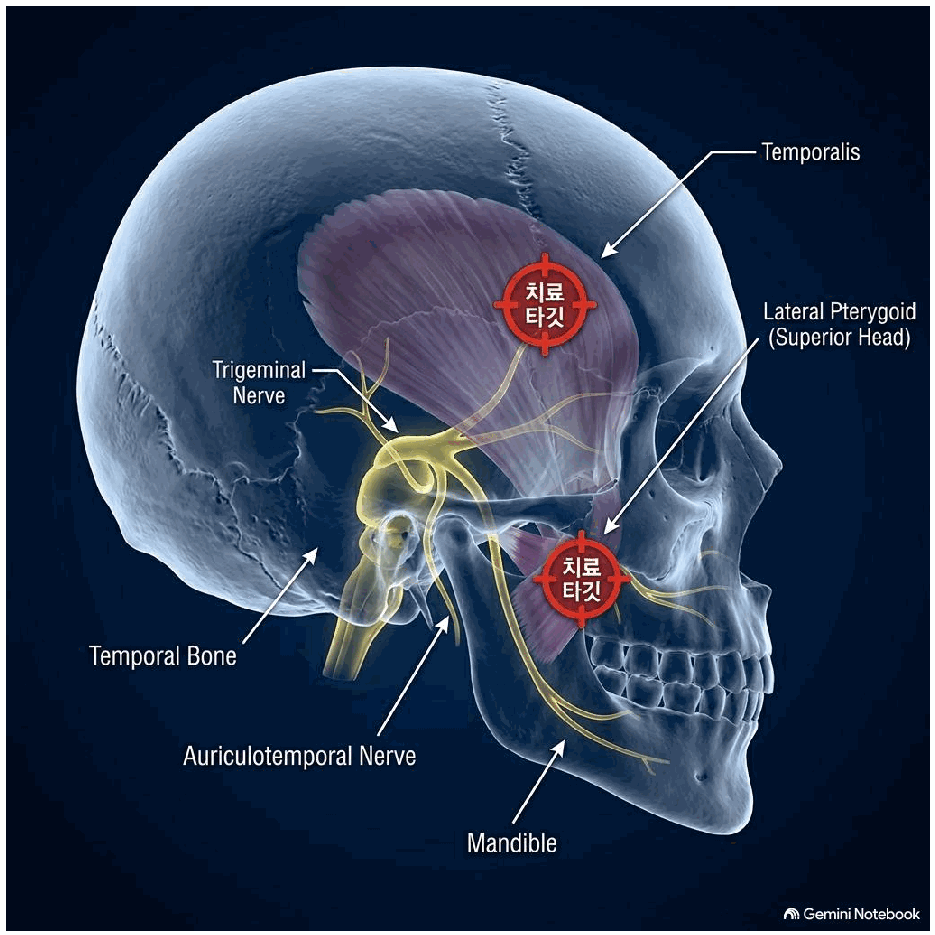
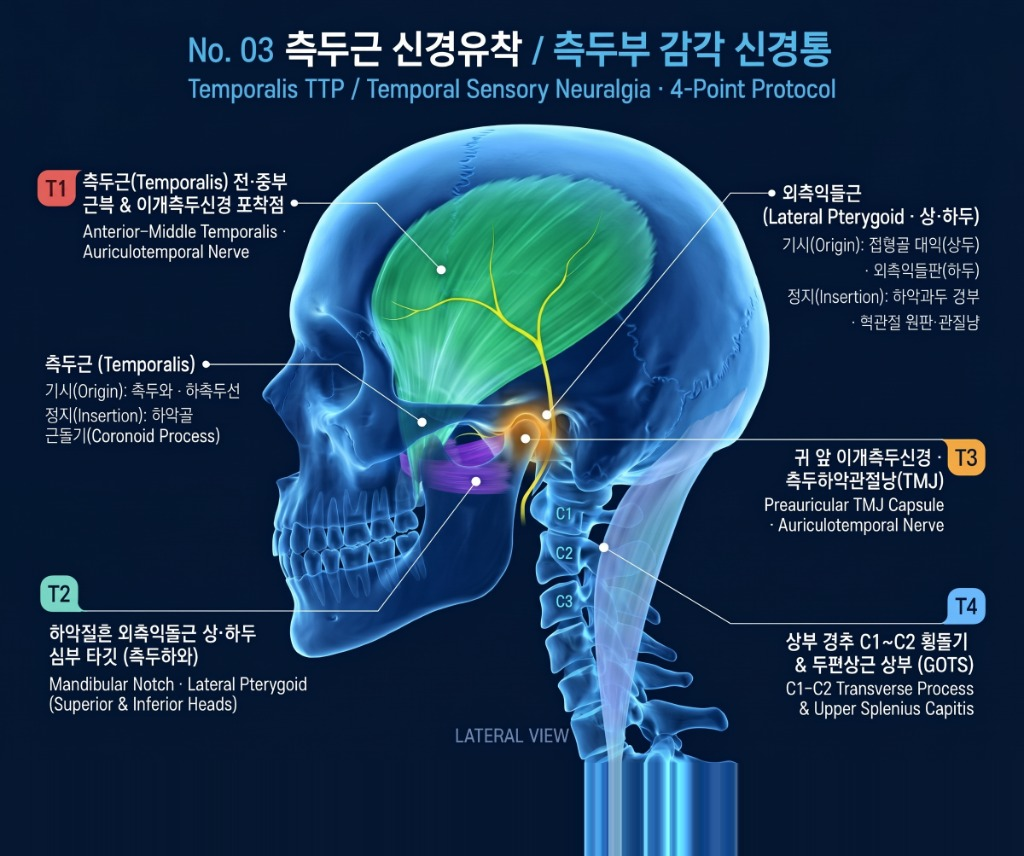
feat(healing-app): upgrade No.03 temporalis & lateral pterygoid plate and align T1-T4 pins

diff --git a/healing-app/js/pain_data.js b/healing-app/js/pain_data.js
@@ -392,8 +392,8 @@ window.PAIN_CONDITIONS = [
       "en": "Head, Neck & Facial Disorders"
     },
     "mechanism": {
-      "ko": "신경유착",
-      "en": "[TTP / ] Tendon Traction & Nerve Entrapment"
+      "ko": "신경유착 / 힘줄견인",
+      "en": "Tendon Traction & Nerve Entrapment"
     },
     "mechTags": [
       "nerve"
@@ -407,104 +407,104 @@ window.PAIN_CONDITIONS = [
       "en": "Periodic stabbing or tingling pain in temple, or heavy band-like compressive sensation around the head."
     },
     "pathophysiology": {
-      "ko": "Zygomaticotemporal n.가 측두근 근막을 뚫고 나오는 지점에서 유착되 거나, 외익상근에 의해 심측두신경(deep temporal n.)이 유착되어 측두 근 허혈/골막 자극(신경유착/견인통) 발생.",
-      "en": "Entrapment of zygomaticotemporal nerve as it pierces temporalis fascia, or entrapment of deep temporal nerve by lateral pterygoid, causing temporalis ischemia/periosteal traction (TTP/)."
+      "ko": "이개측두신경(Auriculotemporal n.) 및 관골측두신경(Zygomaticotemporal n.)이 측두근 근막과 턱관절 후방을 통과할 때 유착되거나, 외측익돌근에 의해 심측두신경(Deep temporal n.)이 압박되어 측두근 허혈·골막 자극 및 측두부 신경통 유발.",
+      "en": "Entrapment of the auriculotemporal and zygomaticotemporal nerves piercing temporalis fascia, or compression of the deep temporal nerve by the lateral pterygoid, inducing temporalis ischemia, periosteal traction, and temporal neuralgia."
     },
     "targetTissues": {
-      "ko": "측두근(Temporalis) 기시부 골막, 외익상근(Lateral pterygoid, superior head).",
-      "en": "Temporalis muscle origin periosteum, Lateral pterygoid muscle (superior head)."
+      "ko": "측두근(Temporalis · 기시: 측두와·하측두선 / 정지: 하악골 근돌기), 외측익돌근 상·하두(Lateral Pterygoid · 기시: 접형골 대익·외측익돌판 / 정지: 하악과두 경부·턱관절 원판·관절낭), 이개측두신경, 측두하악관절낭(TMJ) 및 C1~C2 횡돌기·두판상근 상부.",
+      "en": "Temporalis (temporal fossa to coronoid process), Lateral Pterygoid (superior & inferior heads to condylar neck & TMJ disc/capsule), Auriculotemporal Nerve, preauricular TMJ capsule, and C1-C2 transverse process / upper splenius capitis."
     },
     "palpation": {
-      "ko": "관자놀이 부근 측두근 근복 압통점 및 외익상근 부위.",
-      "en": "Temporalis muscle belly tender point near temple and lateral pterygoid region."
+      "ko": "① 측두근(Temporalis) 전·중부 근복 & 이개측두신경 포착점 ② 하악절흔 외측익돌근 상·하두 심부(측두하와) ③ 귀 앞 이개측두신경·측두하악관절낭(TMJ) ④ 상부 경추 C1~C2 횡돌기 & 두판상근 상부(GOTS).",
+      "en": "1) Anterior-middle temporalis belly & auriculotemporal nerve 2) Mandibular notch lateral pterygoid deep heads 3) Preauricular TMJ capsule & auriculotemporal nerve 4) C1-C2 transverse process & upper splenius capitis (GOTS)."
     },
     "clinicalCase": {
-      "ko": "관자놀이 부위가 날카롭게 콕콕 쑤시고 전기가 통하듯 뻗치는 편두통 양상의 감각신경통 사례. 관골측두신경 출구부 및 측두근 심부 긴장점에 NovaCell Therapy를 집중 조율한 결과, 시술 직후 통증 지수(VAS)가 8에서 0으로 극적으로 개선되며 완전 회복.",
-      "en": "59yo female with sharp, electric shock-like stabbing temple pain for 2 days. Complete resolution (VAS 8??) following NovaCell treatment at zygomaticotemporal nerve exit point in temporalis."
+      "ko": "관자놀이 부위가 날카롭게 콕콕 쑤시고 전기가 통하듯 뻗치는 편두통 양상의 감각신경통 사례. 측두근 이개·관골측두신경 출구부, 외측익돌근 및 귀 앞 관절낭에 NovaCell Therapy를 집중 조율한 결과, 시술 직후 통증 지수(VAS)가 8에서 0으로 극적으로 개선되며 완전 회복.",
+      "en": "59yo female with sharp, electric shock-like stabbing temple pain for 2 days. Complete resolution (VAS 8 to 0) following NovaCell treatment at the temporalis nerve exit, lateral pterygoid, and preauricular TMJ capsule."
     },
     "diagram": "images/diagrams/diagram_03.png",
     "targets": [
       {
         "code": "T1",
         "color": "#ff334b",
-        "x": 58.4,
-        "y": 32.7,
+        "x": 43.0,
+        "y": 31.5,
         "role": {
           "ko": "주 신경포착점",
           "en": "Primary Nerve Entrapment"
         },
         "name": {
-          "ko": "T1: 측두근(Temporalis) 전·중부 근복 및 이개측두신경 포착점",
-          "en": "T1: Temporalis Muscle Belly & Auriculotemporal Nerve"
+          "ko": "T1: 측두근(Temporalis) 전·중부 근복 & 이개측두신경 포착점",
+          "en": "T1: Anterior-Middle Temporalis · Auriculotemporal Nerve"
         },
         "desc": {
-          "ko": "[표적 해부] 측두근 전·중간 섬유 근복 및 이개측두신경·협골측두신경 관통부.\n[촉지 및 시술] 관자놀이(Temple) 중앙 및 안와 외측연 뒤쪽 2cm 측두근 건막 압통점. 편두통·관자놀이 박동통을 즉각 해소합니다.",
-          "en": "Temporalis anterior/middle belly & auriculotemporal nerve entrapment point."
+          "ko": "[표적 해부] 측두와·하측두선에서 기시해 하악골 근돌기로 정지하는 측두근 전·중부 근복 및 이개측두신경·관골측두신경 관통부.\n[촉지 및 시술] 관자놀이(Temple) 중앙 및 안와 외측연 뒤쪽 2cm 측두근 건막 압통점. 편두통과 관자놀이 박동성 통증을 즉각 해소합니다.",
+          "en": "Temporalis anterior/middle belly & auriculotemporal/zygomaticotemporal nerve entrapment point."
         }
       },
       {
         "code": "T2",
         "color": "#00f5d4",
-        "x": 62.2,
-        "y": 61.9,
+        "x": 46.4,
+        "y": 56.2,
         "role": {
           "ko": "심부 근복·근막점",
           "en": "Deep Myofascial Trigger Point"
         },
         "name": {
           "ko": "T2: 하악절흔 외측익돌근 상·하두 심부 타깃 (측두하와)",
-          "en": "T2: Mandibular Notch Lateral Pterygoid Core"
+          "en": "T2: Mandibular Notch · Lateral Pterygoid (Superior & Inferior Heads)"
         },
         "desc": {
-          "ko": "[표적 해부] 관골궁 하방 하악절흔(Mandibular notch) 심부의 외측익돌근 상·하두 및 삼차신경 하악지(V3).\n[촉지 및 시술] 귀 앞 관골궁 바로 아래 입을 살짝 벌릴 때 열리는 반달형 함요처. 측두부 연관통과 턱관절-편두통 연쇄 회로를 끊어줍니다.",
-          "en": "Lateral pterygoid muscle deep to mandibular notch below zygomatic arch."
+          "ko": "[표적 해부] 관골궁 하방 하악절흔(Mandibular Notch) 심부의 외측익돌근 상·하두(하악과두 경부·턱관절 원판·관절낭 정지) 및 삼차신경 하악지(V3).\n[촉지 및 시술] 귀 앞 관골궁 바로 아래 입을 살짝 벌릴 때 열리는 반달형 함요처. 측두부 연관통과 턱관절-편두통 연쇄 회로를 차단합니다.",
+          "en": "Lateral pterygoid superior & inferior heads deep to mandibular notch below the zygomatic arch."
         }
       },
       {
         "code": "T3",
         "color": "#ff9f43",
-        "x": 38.0,
-        "y": 62.0,
+        "x": 51.3,
+        "y": 51.2,
         "role": {
-          "ko": "힘줄·골막 부착점",
-          "en": "Tendon & Periosteal Target"
+          "ko": "관절낭·신경통과점",
+          "en": "TMJ Capsule & Nerve Target"
         },
         "name": {
-          "ko": "T3: 귀 앞 이개측두신경-측두하악관절낭 통과점",
-          "en": "T3: Pre-auricular Auriculotemporal Nerve & TMJ Capsule"
+          "ko": "T3: 귀 앞 이개측두신경 · 측두하악관절낭(TMJ)",
+          "en": "T3: Preauricular TMJ Capsule · Auriculotemporal Nerve"
         },
         "desc": {
-          "ko": "[표적 해부] 이주(Tragus) 전방 1cm 이개측두신경 상행로 및 턱관절 후방 원판인대.\n[촉지 및 시술] 귀 구슬(이주) 바로 앞 관절낭 함요처. 귀에서 관자놀이로 뻗치는 신경통을 제어합니다.",
-          "en": "1cm anterior to tragus over auriculotemporal nerve and posterior TMJ capsule."
+          "ko": "[표적 해부] 이주(Tragus) 전방 1cm 이개측두신경 상행로 및 측두하악관절(TMJ) 후방 원판·관절낭.\n[촉지 및 시술] 귀 구슬(이주) 바로 앞 관절낭 함요처. 귀 앞에서 관자놀이·측두부로 뻗치는 찌릿한 감각신경통을 제어합니다.",
+          "en": "1cm anterior to tragus over the auriculotemporal nerve and posterior TMJ capsule."
         }
       },
       {
         "code": "T4",
         "color": "#38bdf8",
-        "x": 73.0,
-        "y": 47.0,
+        "x": 58.9,
+        "y": 63.9,
         "role": {
           "ko": "후관절·신경근점",
           "en": "Facet & Nerve Root Target"
         },
         "name": {
-          "ko": "T4: 상부 경추 C1-C2 횡돌기 및 두판상근 상부점 (GOTS 스위치)",
-          "en": "T4: C1-C2 Transverse Process & GOTS Relay Switch"
+          "ko": "T4: 상부 경추 C1~C2 횡돌기 & 두판상근 상부 (GOTS)",
+          "en": "T4: C1-C2 Transverse Process & Upper Splenius Capitis (GOTS)"
         },
         "desc": {
-          "ko": "[표적 해부] 대후두신경-삼차신경 증후군(GOTS) 연결축인 C1-C2 후두하부 및 두판상근 상단.\n[촉지 및 시술] 유양돌기 후내측 풍지혈 선상. 난치성 편두통 및 안구 뒤 통증의 중추 감작을 리셋합니다.",
-          "en": "C1-C2 GOTS relay point medial to mastoid process."
+          "ko": "[표적 해부] 대후두신경-삼차신경 증후군(GOTS) 연결축인 상부 경추 C1~C2 횡돌기 및 두판상근 상부.\n[촉지 및 시술] 유양돌기 후하방 풍지혈 선상. 난치성 편두통 및 관자놀이·안구 뒤 연관통의 중추 감작을 안정화합니다.",
+          "en": "C1-C2 transverse process and upper splenius capitis GOTS relay point resetting central sensitization."
         }
       }
     ],
     "anatomicalLabels": [
-      "Zygomaticotemporal Nerve",
-      "Temporalis Muscle",
-      "Deep Temporal Nerves",
-      "Zygomatic Arch"
+      "Anterior-Middle Temporalis & Auriculotemporal Nerve",
+      "Mandibular Notch · Lateral Pterygoid (Superior & Inferior Heads)",
+      "Preauricular TMJ Capsule & Auriculotemporal Nerve",
+      "C1-C2 Transverse Process & Upper Splenius Capitis (GOTS)"
     ],
     "rifeFreq": 528,
-    "searchKeywords": "측두근 신경유착 / 측두부 감각 신경통 Temporalis TTP / Temporal Sensory Neuralgia 관자놀이(temple) 부위가 주기적으로 콕콕 쑤시고 찌릿하거나, 머리를 띠로 두른 듯한 강한 압박감. Periodic stabbing or tingling pain in temple, or heavy band-like compressive sensation around the head. 두경부 및 안면 질환 Head, Neck & Facial Disorders"
+    "searchKeywords": "측두근 신경유착 측두부 감각 신경통 관자놀이 통증 편두통 Temporalis TTP Temporal Sensory Neuralgia 이개측두신경 관골측두신경 외측익돌근 하악절흔 턱관절 TMJ GOTS C1 C2 두판상근 두경부 및 안면 질환 Head Neck Facial Disorders"
   },
   {
     "id": 4,
